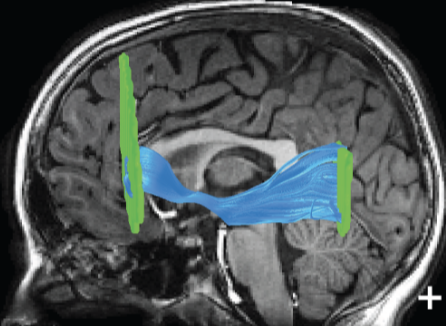
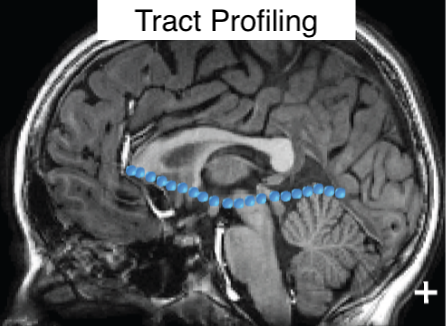
DOC: finish tractometry figure

diff --git a/docs/source/explanations/tractometry_pipeline.rst b/docs/source/explanations/tractometry_pipeline.rst
@@ -1,53 +1,120 @@
 AFQ Tractometry Pipeline
-~~~~~~~~~~~~~~~~~~~~
-.. include:: <isonum.txt>
+~~~~~~~~~~~~~~~~~~~~~~~~
+.. .. |logomo| figure:: _static/tract_modeling2.png
+..    :figclass: top-image
+..    :target: modeling.html
+..    :width: 30%
+..    :ref:`modeling`
 
-.. todo::
-  include tractometry pipeline process flow diagram. create and link detail
-  paged that elaborates on the process and each step within.
+.. .. |logora| figure:: _static/right_arrow.png
+..    :figclass: right-arrow
+..    :width: 30%
 
-.. .. list-table:: AFQ Tractometry Pipeline
-..    :widths: auto
+.. .. |logotr| figure:: _static/tract_tractography.png
+..    :figclass: top-image
+..    :target: tractography.html
+..    :width: 30%
+..    :ref:`tractography`
 
-..    * - Tractography
-..      - |rArr| `Registration <http://yeatmanlab.github.io/pyAFQ/autoapi/AFQ/registration/index.html>`_
-..      - |rArr| `Segmentation <http://yeatmanlab.github.io/pyAFQ/autoapi/AFQ/segmentation/index.html>`_
-..      - |rArr| `Cleaning <http://yeatmanlab.github.io/pyAFQ/autoapi/AFQ/segmentation/index.html#AFQ.segmentation.clean_bundles>`_
-..      - |rArr| `Profiling <https://dipy.org/documentation/1.4.0./reference/dipy.stats/#afq-profile>`_
-..      - |rArr| `Visualization <http://yeatmanlab.github.io/pyAFQ/autoapi/AFQ/viz/index.html>`_
+.. .. |logoda| image:: _static/down_arrow.png
+..    :width: 30%
 
-.. figure:: _static/tract_modeling2.png
-   :figclass: top-image
-   :target: modeling.html
+.. .. |logore| figure:: _static/tract_recognition.png
+..    :figclass: bottom-image
+..    :target: recognition.html
+..    :width: 40%
+..    :ref:`recognition`
 
-   :ref:`modeling`
+.. .. |logola| figure:: _static/left_arrow.png
+..    :figclass: left-arrow
+..    :width: 10%
 
-.. figure:: _static/right_arrow.png
-   :figclass: right-arrow
+.. .. |logopr| figure:: _static/tract_visualization.png
+..    :figclass: bottom-image
+..    :width: 40%
+..    :target: profiling.html
+..    :ref:`profiling`
 
-.. figure:: _static/tract_tractography.png
-   :figclass: top-image
-   :target: tractography.html
+.. +----------+----------+----------+
+.. | |logomo| | |logora| | |logotr| |
+.. +----------+----------+----------+
+.. |          |          | |logoda| |
+.. +----------+----------+----------+
+.. | |logore| | |logola| | |logopr| |
+.. +----------+----------+----------+
 
-   :ref:`tractography`
+.. image:: _static/tract_modeling2.png
+          :target: modeling.html
+          :align: left
+          :width: 50%
+.. image:: _static/down_left_arrow.png
+          :align: right
+          :width: 30%
+.. image:: _static/tract_tractography.png
+          :target: tractography.html
+          :align: right
+          :width: 50%
+.. image:: _static/down_right_arrow.png
+          :align: left
+          :width: 30%
+.. image:: _static/tract_recognition.png
+          :target: recognition.html
+          :align: left
+          :width: 50%
+.. image:: _static/down_left_arrow.png
+          :align: right
+          :width: 30%
+.. image:: _static/tract_profiling.png
+          :width: 50%
+          :target: profiling.html
+          :align: right
 
-.. figure:: _static/right_arrow.png
-   :figclass: right-arrow
 
-.. figure:: _static/tract_recognition.png
-   :figclass: top-image
-   :target: recognition.html
+.. .. list-table:: simple image grid
+..    :class: borderless
 
-   :ref:`recognition`
+..    * - .. image:: _static/tract_modeling2.png
+..           :target: modeling.html
+..           :align: left
+..           :width: 20%
+..      - .. image:: _static/right_arrow.png
+..           :align: middle
+..           :width: 10%
+..      - .. image:: _static/tract_tractography.png
+..           :target: tractography.html
+..           :align: right
+..           :width: 20%
+..    * - 
+..      - 
+..      - .. image:: _static/down_arrow.png
+..           :width: 10%
+..    * - .. image:: _static/tract_recognition.png
+..           :target: recognition.html
+..           :width: 20%
+..      - .. image:: _static/left_arrow.png
+..           :width: 10%
+..      - .. image:: _static/tract_visualization.png
+..           :width: 20%
+..           :target: profiling.html
 
-.. image:: _static/down_arrow.png
-   :width: 8%
-
-.. figure:: _static/tract_visualization.png
-   :figclass: bottom-image
-   :target: profiling.html
-
-   :ref:`profiling`
 
 
+.. +---------------------------------------------+-------------------------------------+---------------------------------------------+
+.. | .. image:: _static/tract_modeling2.png      | .. image:: _static/right_arrow.png  | .. image:: _static/tract_tractography.png   |
+.. |    :width: 30%                              |    :width: 30%                      |    :width: 30%                              |
+.. |    :target: modeling.html                   |                                     |    :target: tractography.html               |
+.. +---------------------------------------------+-------------------------------------+---------------------------------------------+
+.. |                                             |                                     | .. image:: _static/down_arrow.png           |
+.. |                                             |                                     |    :width: 30%                              |
+.. |                                             |                                     |                                             |
+.. +---------------------------------------------+-------------------------------------+---------------------------------------------+
+.. | .. image:: _static/tract_visualization.png  | .. image:: _static/left_arrow.png   | .. image:: _static/tract_recognition.png    |
+.. |    :width: 30%                              |    :width: 30%                      |    :width: 30%                              |
+.. |    :target: profiling.html                  |                                     |    :target: recognition.html                |
+.. +---------------------------------------------+-------------------------------------+---------------------------------------------+
 
+
+.. |    :ref:`modeling`                          |                                     |    :ref:`tractography`                      |
+
+
+.. |    :ref:`profiling`                         |                                     |    :ref:`recognition`                       |

diff --git a/docs/source/explanations/recognition.rst b/docs/source/explanations/recognition.rst
@@ -2,3 +2,12 @@
 
 Bundle Recognition
 ==================
+pyAFQ segments streamlines into different known fiber bundles,
+like the corpus callosum, corticospinal tract, or uncinate fasciculus.
+This is typically achieved through a combination of anatomical landmarks
+(either in the core white matter, as inclusion/exclusion regions of interest,
+or using startpoint/endpoint regions in the gray matter). Streamline
+orientation, length, and curvature are also used to help identify bundles.
+After initial segmentation, the bundle often undergoes cleaning to remove
+spurious streamlines that likely do not belong to the target bundle.
+You can see the :mod:`AFQ.segmentation` module for details.

diff --git a/docs/source/explanations/profiling.rst b/docs/source/explanations/profiling.rst
@@ -2,3 +2,9 @@
 
 Profiling
 =========
+Once the bundles are identified, pyAFQ quantifies various properties of the
+tract along its length. By default, these are fractional anisotropy and
+mean diffusivity from diffusion tensor imaging. However, custom tissue
+properties may be provided (see :ref:`custom-scalars` for details)
+and there are a variety of other built-in tissue properties that you
+can find in :ref:`methods_docs`.

diff --git a/docs/source/howto/usage/index.rst b/docs/source/howto/usage/index.rst
@@ -31,3 +31,5 @@ Examples of using the API are provided in the :ref:`examples` documentation sect
     scalars
     converter
     docker
+    methods
+    image

diff --git a/docs/source/howto/usage/scalars.rst b/docs/source/howto/usage/scalars.rst
@@ -1,3 +1,4 @@
+.. _custom-scalars:
 
 How to add custom tissue properties from another pipeline
 ~~~~~~~~~~~~~~~~~~~~~~~~~~~~~~~~~~~~~~~~~~~~~~~~~~~~~~~~~

diff --git a/docs/source/reference/index.rst b/docs/source/reference/index.rst
@@ -10,3 +10,4 @@ Reference Documentation
     methods
     viz_backend
     mapping
+    config
